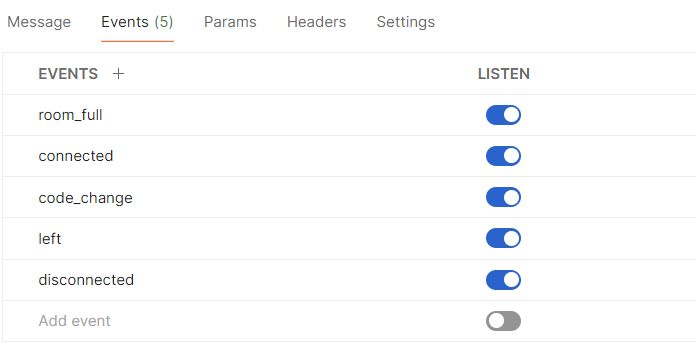
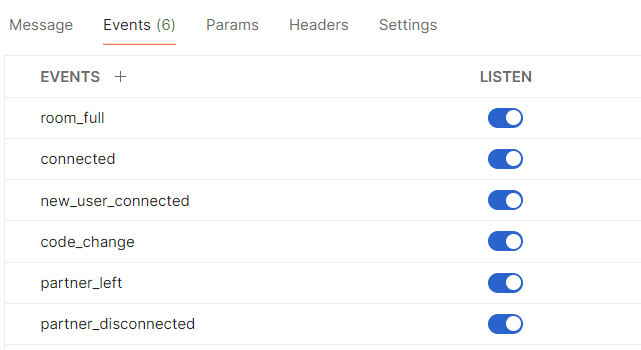
Update readme

diff --git a/backend/collab-service/src/handlers/websocketHandler.ts b/backend/collab-service/src/handlers/websocketHandler.ts
@@ -12,9 +12,10 @@ enum CollabEvents {
   // Send
   ROOM_FULL = "room_full",
   CONNECTED = "connected",
+  NEW_USER_CONNECTED = "new_user_connected",
   CODE_CHANGE = "code_change",
-  LEFT = "left",
-  DISCONNECTED = "disconnected",
+  PARTNER_LEFT = "partner_left",
+  PARTNER_DISCONNECTED = "partner_disconnected",
 }
 
 const EXPIRY_TIME = 3600;
@@ -34,13 +35,12 @@ export const handleWebsocketCollabEvents = (socket: Socket) => {
     socket.join(roomId);
     socket.data.roomId = roomId;
 
-    // in case of disconnect, send the code to the user when rejoin
+    // in case of disconnect, send the code to the user when he rejoins
     const code = await redisClient.get(`collaboration:${roomId}`);
-    if (code) {
-      io.to(roomId).emit(CollabEvents.CONNECTED, { code });
-    } else {
-      io.to(roomId).emit(CollabEvents.CONNECTED);
-    }
+    socket.emit(CollabEvents.CONNECTED, { code: code ? code : "" });
+
+    // inform the other user that a new user has joined
+    socket.to(roomId).emit(CollabEvents.NEW_USER_CONNECTED);
   });
 
   socket.on(CollabEvents.CHANGE, async ({ roomId, code }) => {
@@ -51,7 +51,7 @@ export const handleWebsocketCollabEvents = (socket: Socket) => {
     await redisClient.set(`collaboration:${roomId}`, code, {
       EX: EXPIRY_TIME,
     });
-    io.to(roomId).emit(CollabEvents.CODE_CHANGE, { code });
+    socket.to(roomId).emit(CollabEvents.CODE_CHANGE, { code });
   });
 
   socket.on(CollabEvents.LEAVE, ({ roomId }) => {
@@ -60,13 +60,13 @@ export const handleWebsocketCollabEvents = (socket: Socket) => {
     }
 
     socket.leave(roomId);
-    socket.to(roomId).emit(CollabEvents.LEFT);
+    socket.to(roomId).emit(CollabEvents.PARTNER_LEFT);
   });
 
   socket.on(CollabEvents.DISCONNECT, () => {
     const { roomId } = socket.data;
     if (roomId) {
-      socket.to(roomId).emit(CollabEvents.DISCONNECTED);
+      socket.to(roomId).emit(CollabEvents.PARTNER_DISCONNECTED);
     }
   });
 };

diff --git a/backend/collab-service/README.md b/backend/collab-service/README.md
@@ -44,9 +44,9 @@
    ![image4.png](docs/image4.png)
 
 ## Events Available   
-| Event Name     | Description                       | Parameters                                                                    | Response Event                                                                                                            |
-|----------------|-----------------------------------|-------------------------------------------------------------------------------|---------------------------------------------------------------------------------------------------------------------------|
-| **join**       | Joins a collaboration room.       | `roomId` (string): ID of the room.                                            | **room_full:** Emitted if the room is full (only 2 users allowed).<br/>**connected:** Emitted upon successful connection. |
-| **change**     | Sends updated code to other user. | `roomId` (string): ID of the room.<br/>`code` (string): Updated code content. | **code_change:** Emitted with the updated code content.                                                                   |
-| **leave**      | Leaves the collaboration room.    | `roomId` (string): ID of the room.                                            | **left:** Emitted when one user leaves the room, notifying the other user.                                                |
-| **disconnect** | Disconnects from the server.      | None                                                                          | **disconnected:** Emitted when one user is disconnected, notifying the other user.                                        |
+| Event Name     | Description                       | Parameters                                                                    | Response Event                                                                                                                                                                                                            |
+|----------------|-----------------------------------|-------------------------------------------------------------------------------|---------------------------------------------------------------------------------------------------------------------------------------------------------------------------------------------------------------------------|
+| **join**       | Joins a collaboration room.       | `roomId` (string): ID of the room.                                            | **room_full:** Notify the user if the room is full (only 2 users allowed).<br/>**connected:** Notify the user if successfully connection.<br/>**new_user_connected:** Notify the other user if a new user joins the room. |
+| **change**     | Sends updated code to other user. | `roomId` (string): ID of the room.<br/>`code` (string): Updated code content. | **code_change:** Notify the other user with the updated code content.                                                                                                                                                     |
+| **leave**      | Leaves the collaboration room.    | `roomId` (string): ID of the room.                                            | **partner_left:** Notify the other user when one leaves the room.                                                                                                                                                         |
+| **disconnect** | Disconnects from the server.      | None                                                                          | **partner_disconnected:** Notify the other user when one is disconnected.                                                                                                                                                 |
